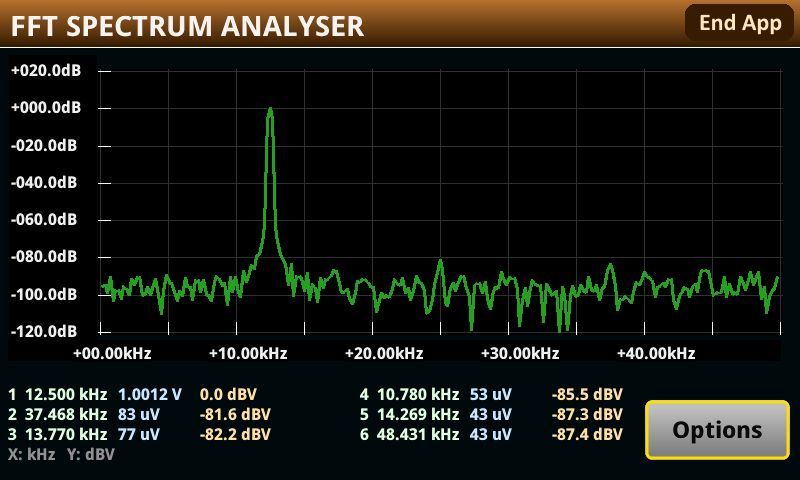
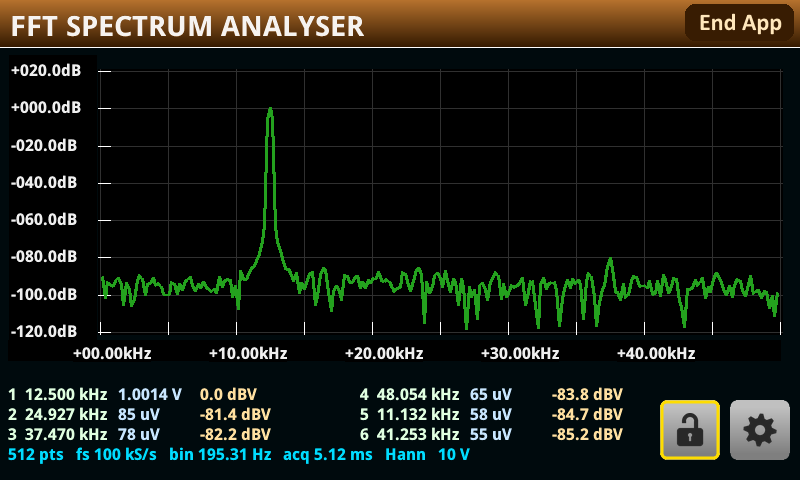
The view lock reads the axes back and writes only what a pan moved
Re-asserting both limits every frame dropped the frame rate and flickered the
trace on the glass. Writing an axis limit repaints the whole widget, label text
included; reading it does not -- scalex and scaley called with the id alone
answer with the current limits and repaint nothing.

So sg_relock() reads first and pins only the axis that has actually moved. An
untouched locked view is two reads a frame and no write at all, which the suite
now asserts directly: two locked frames leave both pin counters where they were.

The moved-or-not test and the pin share sg_xwant(), so they cannot disagree about
the DC clamp on a sub-pixel Start. The tolerance is the span over sg_notol, below
one pixel of pan and above any rounding in the read-back; a nil read-back writes
nothing, because a lock that misses a drag beats a frame that flickers.

Also: display.OBJ_EDIT_CHECK does exist. The comment on onoff_labels claimed the
firmware has no checkbox, which is false -- the two-entry EDIT_OPTION is there to
match the rest of the form, not because a checkbox was unavailable.

The mock's scaley now returns its limits on a no-limit call, like scalex already
did, or the suite could not tell a read from a write. 364 tests, 0 failures.

diff --git a/README.md b/README.md
@@ -21,8 +21,7 @@ and a touchscreen, which is enough to resolve the second and third harmonics of 
 - **Transforms** with a real-input radix-2 FFT in Lua 5.0.2. The window, the bit-reversal permutation
   and every twiddle factor are precomputed when settings are applied. 256 to 8,192 bins.
 - **Plots** through `display.OBJ_GRAPH`, one buffer refill a frame and, with the view unlocked, no
-  graph call at all, which
-  brings axes, grid, labels and auto-scaling with it. The firmware labels both axes in real units --
+  graph call at all, which brings axes, grid, labels and auto-scaling with it. The firmware labels both axes in real units --
   kHz across, from binding X to the reading's extra field rather than its timestamp, and dB down,
   from a two-character custom buffer unit. The trace is a fixed **255 columns** at every
   sample count, each carrying the **maximum of the bins it covers**, so a narrow tone always reaches
@@ -30,8 +29,9 @@ and a touchscreen, which is enough to resolve the second and third harmonics of 
 - **Finds six peaks** to sub-bin accuracy, correcting both the frequency and the scalloping loss.
 - **Offers four windows**, Kaiser with six betas, and reads peaks exactly for each.
 - **Locks the view.** The firmware's graph pans and zooms on touch and will not be told not to, so a
-  brushed screen slides the trace off its axes. The padlock button restores the window every frame
-  instead; the cog beside it opens Options.
+  brushed screen slides the trace off its axes. The padlock button puts the window back as soon as it
+  moves, reading the limits rather than rewriting them so an untouched frame repaints nothing. The
+  cog beside it opens Options.
 
 The span windows the display and may only *raise* the sample rate, never lower it: zooming in leaves
 acquisition at 100 kS/s and, with the default 512 samples, 195.3 Hz bins. Widening past 50 kHz steps 

diff --git a/docs/MANUAL.md b/docs/MANUAL.md
@@ -45,14 +45,16 @@ The firmware's graph pans and zooms on touch, and offers no way to decline — `
 refuses both `STATE_DISABLE` and `STATE_READONLY` on a graph. So a brushed screen slides the trace
 sideways and the axis labels no longer describe the span.
 
-Press the padlock and it closes: from then on every frame puts the axes back where they belong. A
-drag still moves the trace, and the next frame undoes it, so the snap-back takes one frame — a tenth
-of a second at the 512-sample default, and about two seconds at 16384, where frames are 2.1 s apart.
-Press it again and it opens, leaving the view wherever your finger left it; the next Apply, or a
-zoom, re-pins it.
+Press the padlock and it closes: from then on each frame checks the axes and puts back anything that
+has moved. A drag still moves the trace, and the next frame undoes it, so the snap-back takes one
+frame — a tenth of a second at the 512-sample default, and about two seconds at 16384, where frames
+are 2.1 s apart. Press it again and it opens, leaving the view wherever your finger left it; the next
+Apply, or a zoom, re-pins it.
 
-Restoring the axes costs two graph calls a frame, which is why the lock starts off rather than on.
-Nothing else about a locked frame differs.
+**The check is a read, not a write.** Writing an axis limit repaints the whole graph, which flickers
+the trace and costs frame rate, so a locked view that nobody has touched writes nothing: two
+read-backs a frame and no repaint. Only an actual pan or zoom produces a write, and only on the axis
+that moved.
 
 ## Options
 

diff --git a/docs/PERFORMANCE.md b/docs/PERFORMANCE.md
@@ -269,11 +269,13 @@ frame and a 5.3 s Apply are the reasons 32768 is not on the Options list.
 | `display.setpixel(...)` | 10.8 - 14.6 µs | 2,500 and 60,000 call runs |
 | `display.flush(obj)` | **0.203 s** for an 800x480 surface | see the surface note below |
 
-`display.graph.scalex` and `scaley` are **not in this table and want measuring**: one of each is the
-view lock's entire per-frame cost, and `graph.add` next to them says a graph call can be milliseconds
-rather than microseconds. If the pair comes in near 4 ms each, a locked frame at 256 samples crosses
-50 ms and drops from 20 fps to 10 -- the one size where the margin is that thin. The lock is off at
-launch, so an unlocked app is unaffected either way.
+**Writing an axis limit repaints the whole widget**, label text included, and on the glass that is a
+visible flicker and a drop in frame rate -- measured by eye with the view lock re-asserting both
+limits every frame. Reading them back does not: `scalex` and `scaley` called with the id alone answer
+with the current limits and repaint nothing. So the lock reads first and writes only when a pan has
+actually moved something, which makes an untouched locked view two reads a frame and no write at all.
+Neither call is in the table above yet; `graph.add`'s 4 ms is the warning that a graph *write* is
+milliseconds, not microseconds.
 
 A reading-buffer element costs **16x a plain Lua table element**. That is the single most important
 number in this file: it is why the load phase is what it is, and why copying a buffer into a plain
